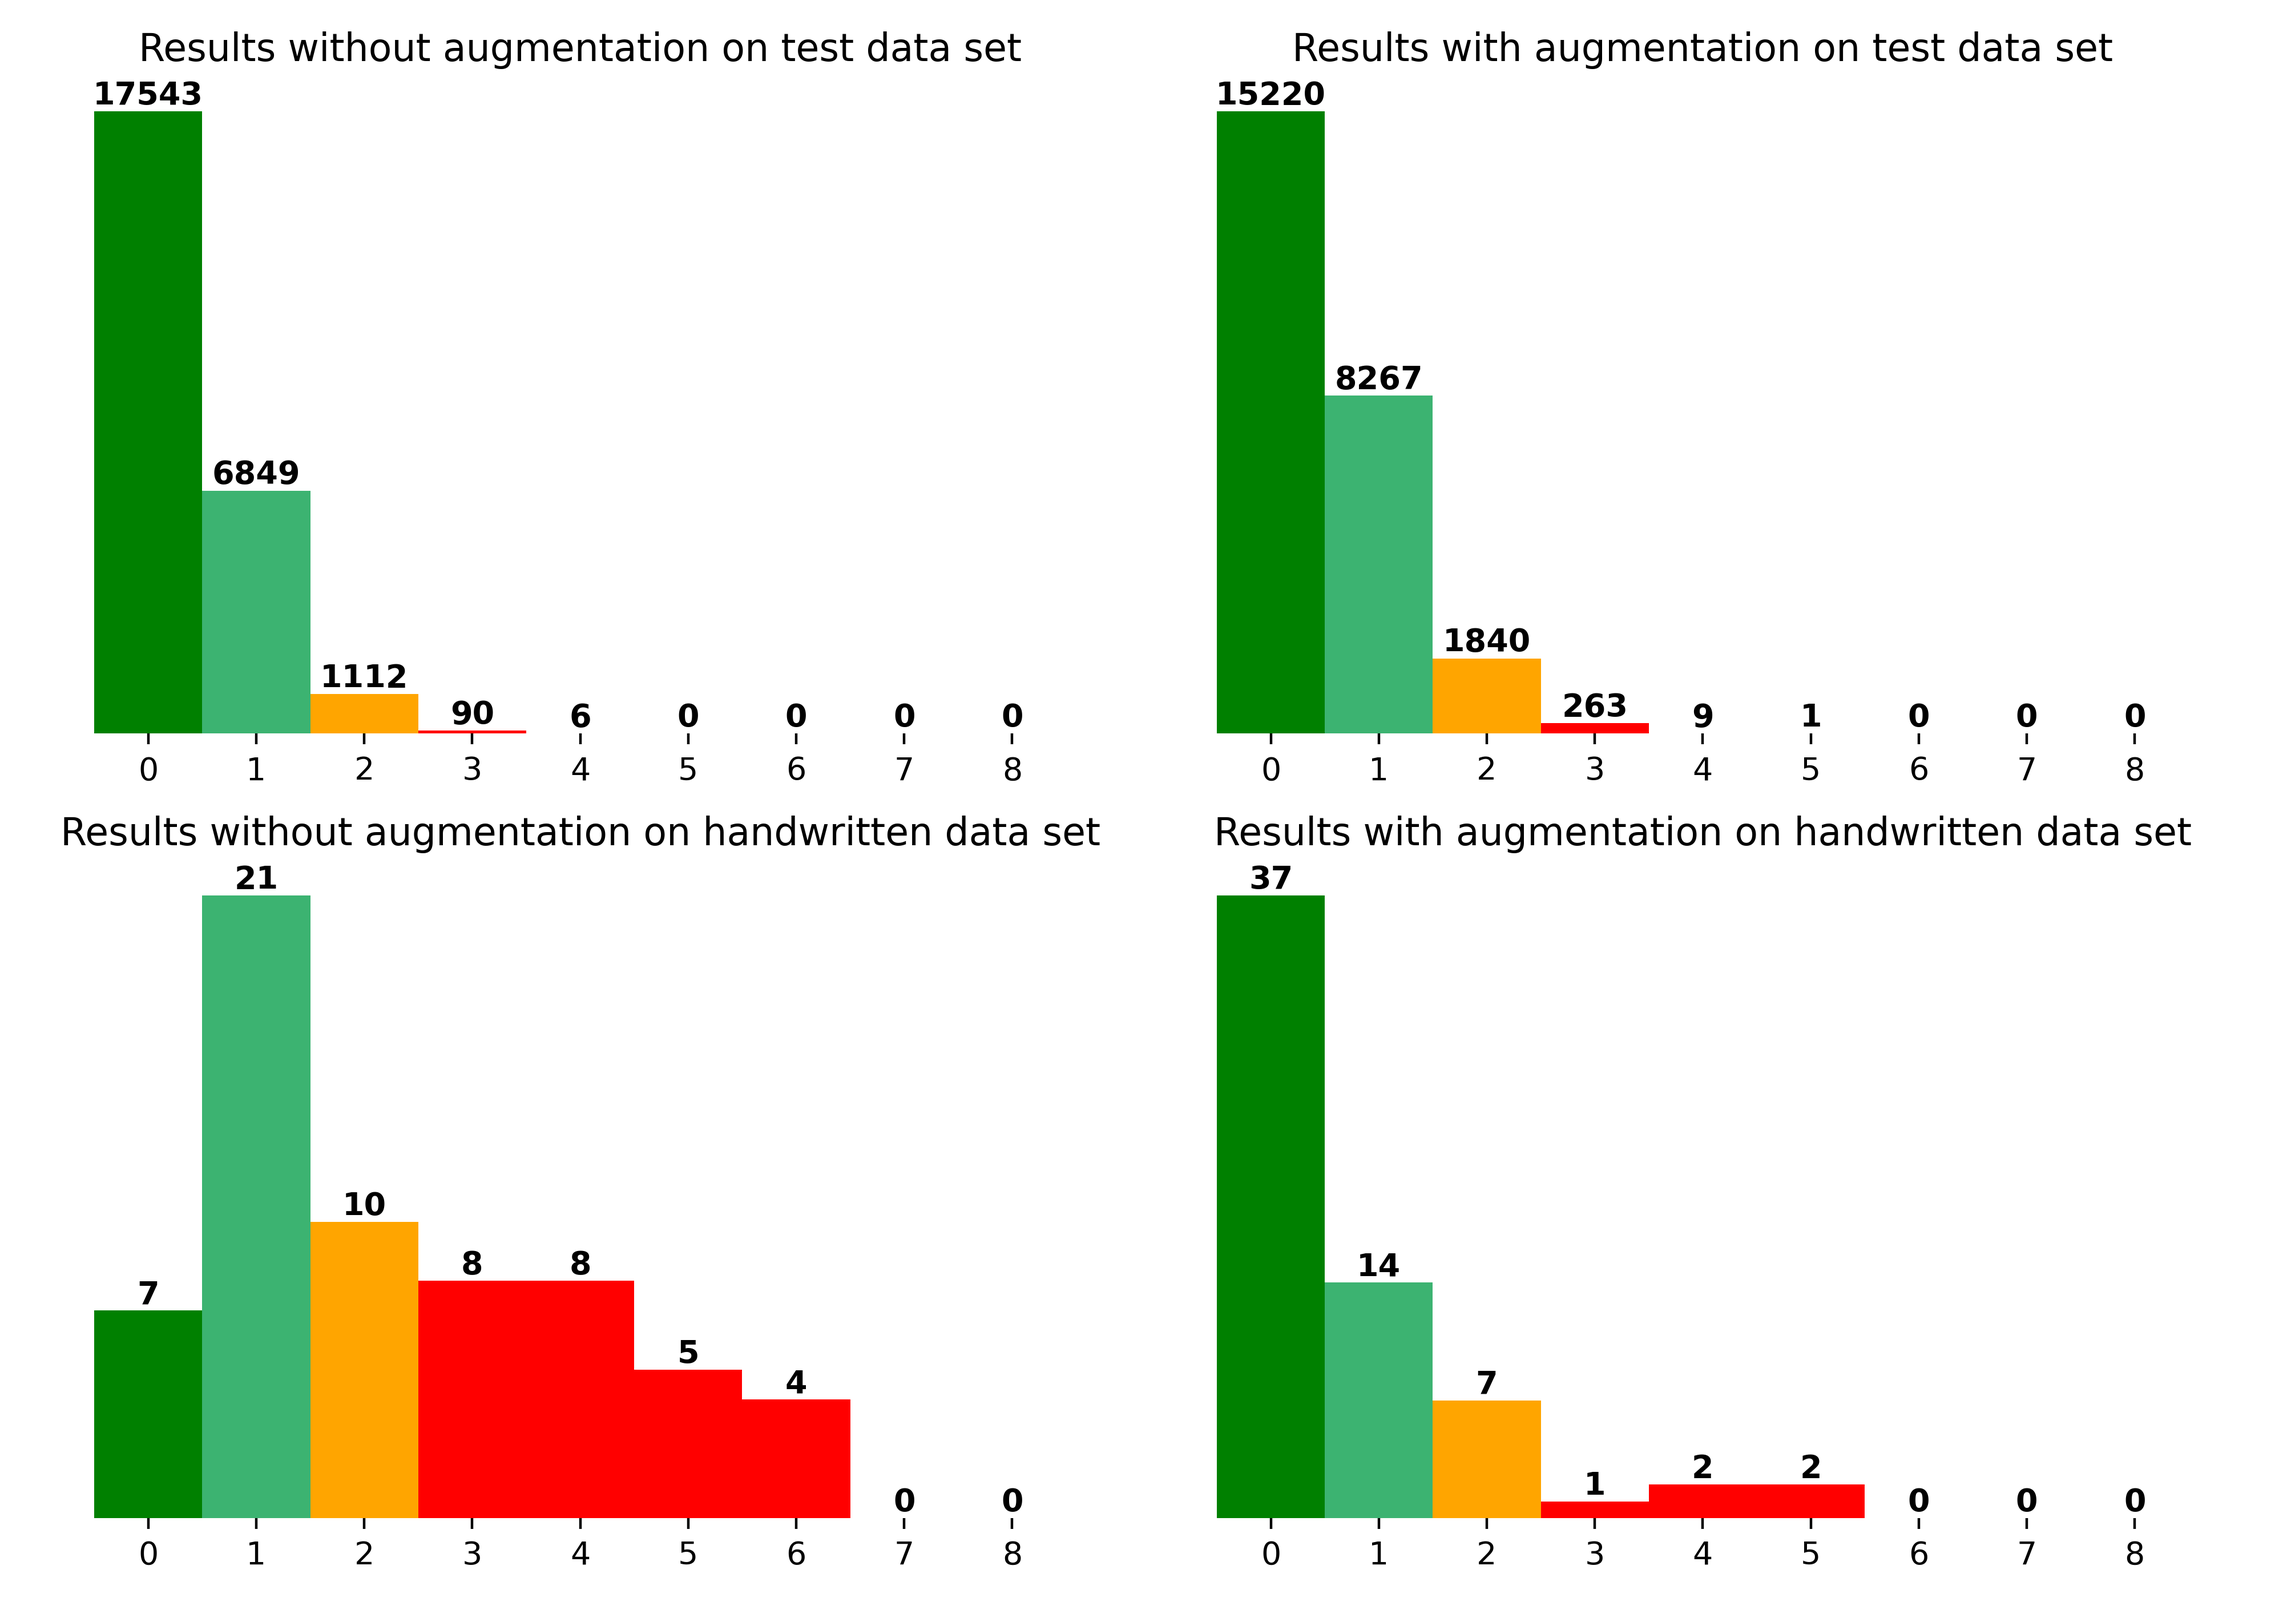
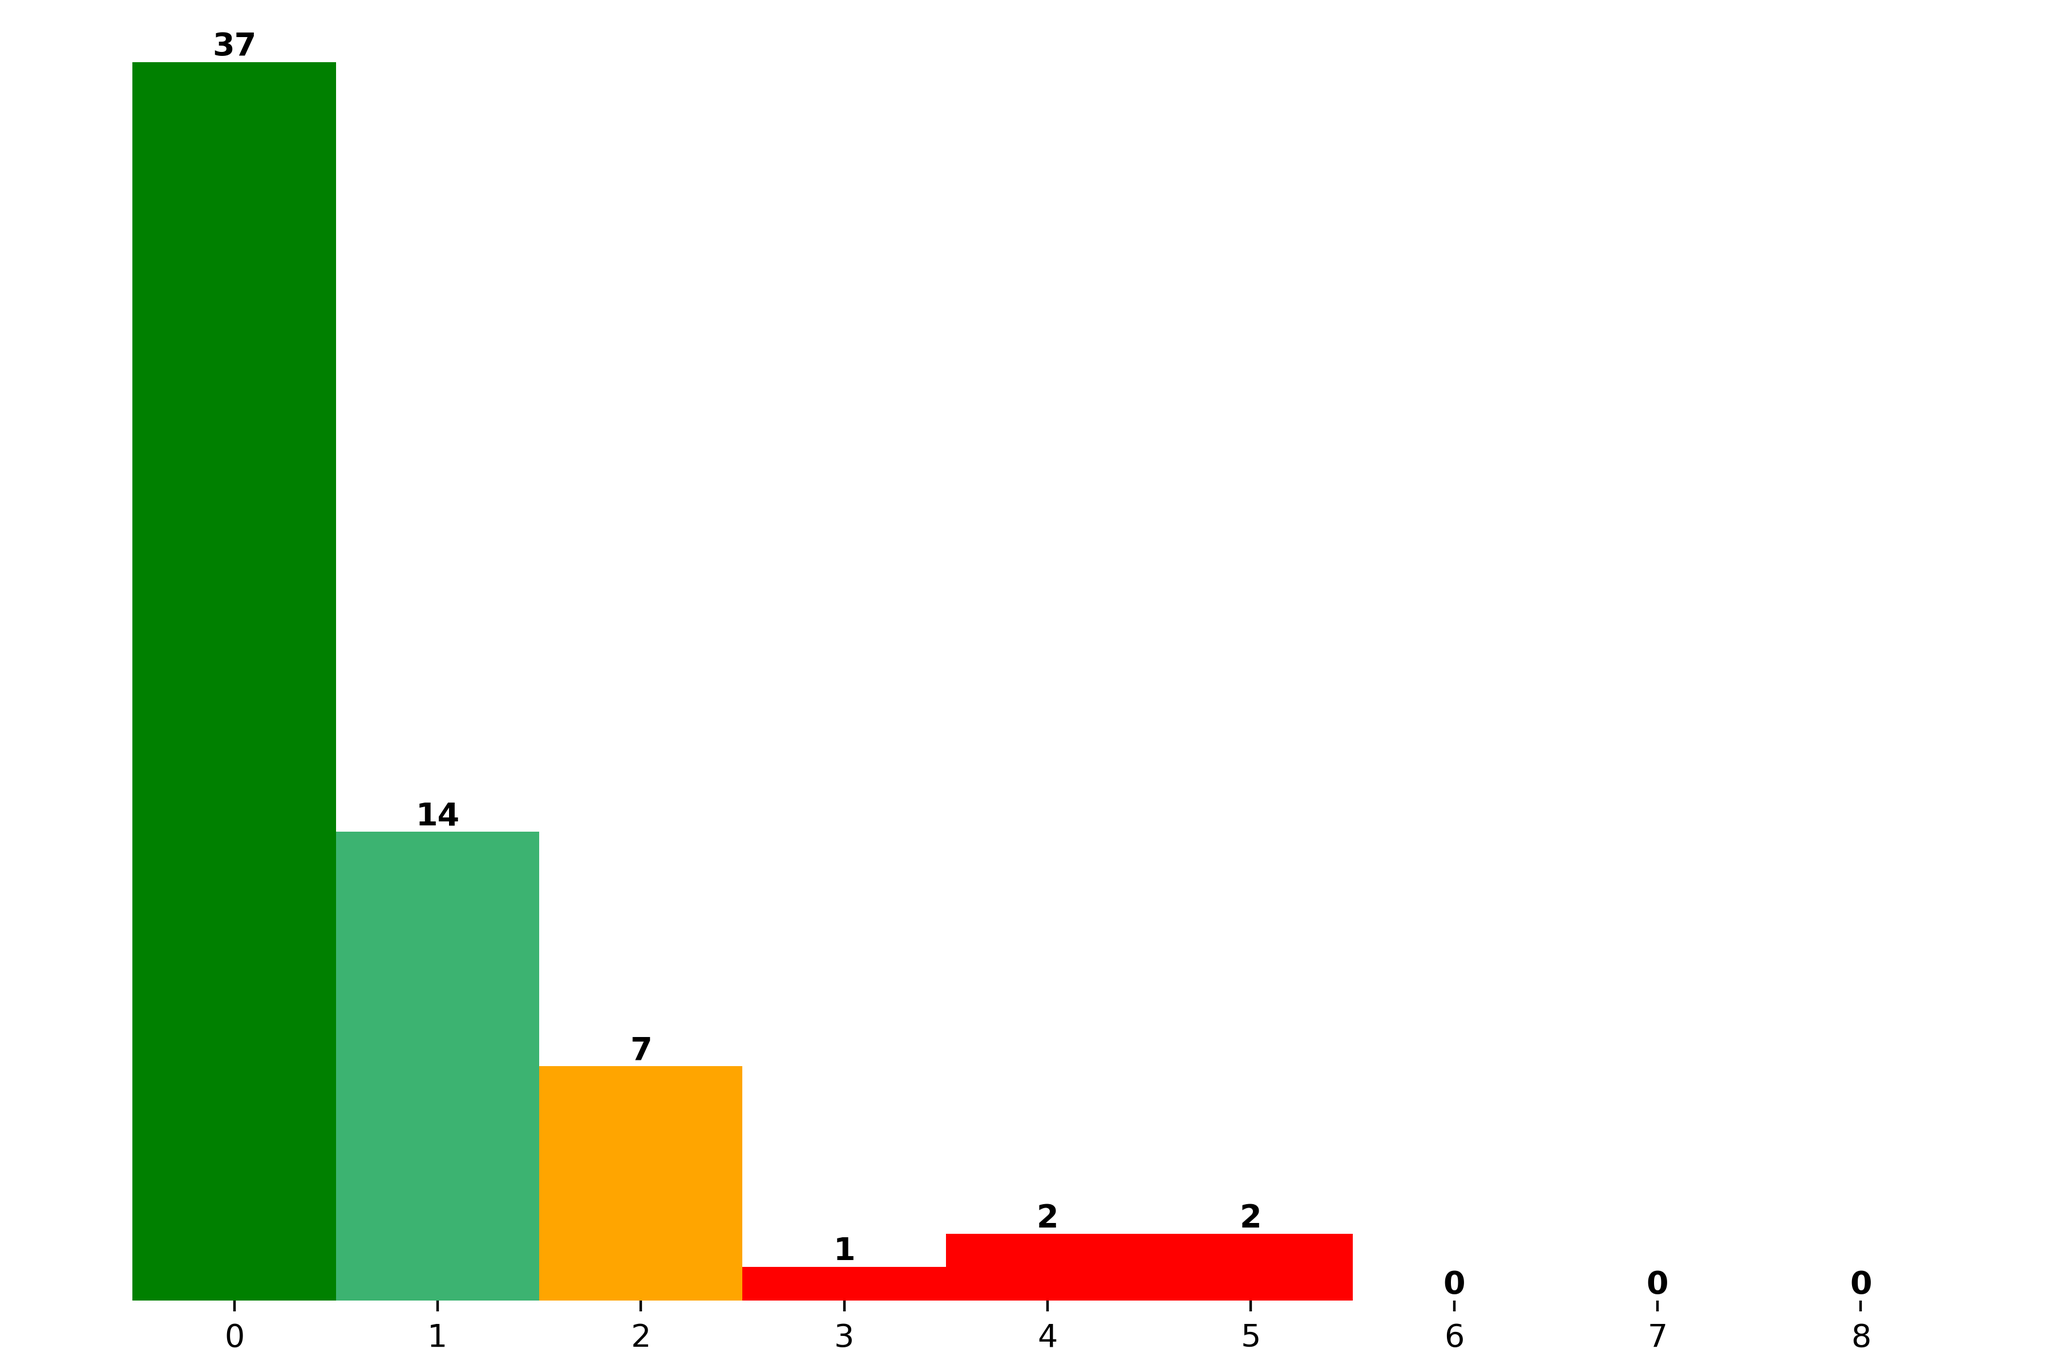
main-more plots

diff --git a/final.py b/final.py
@@ -175,6 +175,7 @@ if __name__ == "__main__":
     parser.add_argument("-t", "--train", choices=["MSER_classifier", "custom_recursive_CNN", "custom_CNN", "YOLO_inspired_CNN"], help="Train specified model.")
     parser.add_argument("-e", "--evaluate", choices=["MSER_classifier", "custom_recursive_CNN", "custom_CNN", "YOLO_inspired_CNN"], help="Evaluate specified model.")
     parser.add_argument("-na", "--no_augmentation", action="store_true", help="Train or evaluate model on not augmented data sets, use with -t (--train) and -e (--evaluate) options.")
+    parser.add_argument("-eMC", "--evaluate_MC", action="store_true", help="Evaluate the multi multi-classifier (custom_recursive_CNN) with and without augmentation.")
     parser.add_argument("-prMC", "--plot_results_MC", action="store_true", help="Plot results of the multi-classifier (custom_recursive_CNN).")
     parser.add_argument("-prMSER", "--plot_results_MSER", action="store_true", help="Plot results of the MSER based classifier.")
     parser.add_argument("-pr", "--plot_results", action="store_true", help="Plot results of an ensemble of the multi-classifier and the MSER based classifier.")
@@ -233,8 +234,8 @@ if __name__ == "__main__":
         if args.evaluate == "MSER_classifier":
             args.evaluate = "mser/classifier"
         os.system(f"python3 -u {NETWORKS_PATH}{args.evaluate}.py --evaluate {augment_switch}")
-
-    if args.plot_results_MC:
+    
+    if args.evaluate_MC:
         not_augmented_model = CustomRecursiveCNN(device="cpu", augmentation=False)
         augmented_model = CustomRecursiveCNN(device="cpu", augmentation=True)
 
@@ -271,6 +272,21 @@ if __name__ == "__main__":
         annotate_bins(axis[1, 1], augmented_handwritten_distances, annotations_x)
         clean_axis(axis[1, 1], annotations_x, distances)
         axis[1, 1].set_title("Results with augmentation on handwritten data set")
+
+        plt.savefig(f"{RESULTS_PATH}multi_classifier_evaluation", dpi=400)
+        plt.show()
+    
+    if args.plot_results_MC:
+        augmented_model = CustomRecursiveCNN(device="cpu", augmentation=True)
+
+        augmented_handwritten_distances = evaluate_model_on_handwritten_set(augmented_model)
+        figure, axis = plt.subplots(1, 1)
+        figure.set_size_inches(9, 6)
+        plt.subplots_adjust(left=0.02, bottom=0.05, right=1.0, top=1.0, hspace=0.1, wspace=0.02)
+        *_, patches = axis.hist(bins[:-1], bins, weights=augmented_handwritten_distances)
+        color_patches(patches)
+        annotate_bins(axis, augmented_handwritten_distances, annotations_x)
+        clean_axis(axis, annotations_x, distances)
 
         plt.savefig(f"{RESULTS_PATH}multi_classifier_results", dpi=400)
         plt.show()

diff --git a/README.md b/README.md
@@ -91,6 +91,7 @@ options:
   -e {MSER_classifier,custom_recursive_CNN,custom_CNN}, --evaluate {MSER_classifier,custom_recursive_CNN,custom_CNN}
                                 Evaluate specified model.
   -na, --no_augmentation        Train or evaluate model on not augmented data sets, use with -t (--train) and -e (--evaluate) options.
+  -eMC, --evaluate_MC           Evaluate the multi multi-classifier (custom_recursive_CNN) with and without augmentation.
   -prMC, --plot_results_MC      Plot results of the multi-classifier (custom_recursive_CNN).
   -prMSER, --plot_results_MSER  Plot results of the MSER based classifier.
   -pr, --plot_results           Plot results of an ensemble of the multi-classifier and the MSER based classifier.
@@ -102,6 +103,7 @@ Additionaly, we provide a GUI script (``GUI.py``), which lets you select an imag
 ``python3 final.py -prMC -prMSER -pr            `` - Plots all results as bar plot of Levenshtein distances.  
 ``python3 final.py -e MSER_classifier           `` - Evaluates the classifier on augmented data set and plots a confusion matrix.  
 ``python3 final.py -e custom_recursive_CNN      `` - Evaluates the recursive CNN on augmented data set and plots a bar plot of Levenshtein distances.  
+``python3 final.py -eMC                         `` - Evaluates the recursive CNN on augmented and not augmented data sets and plots a bar plot of Levenshtein distances.  
 ``python3 final.py -t custom_recursive_CNN      `` - Trains the recursive CNN on augmented data.
 
 ### Screenshots of the GUI
